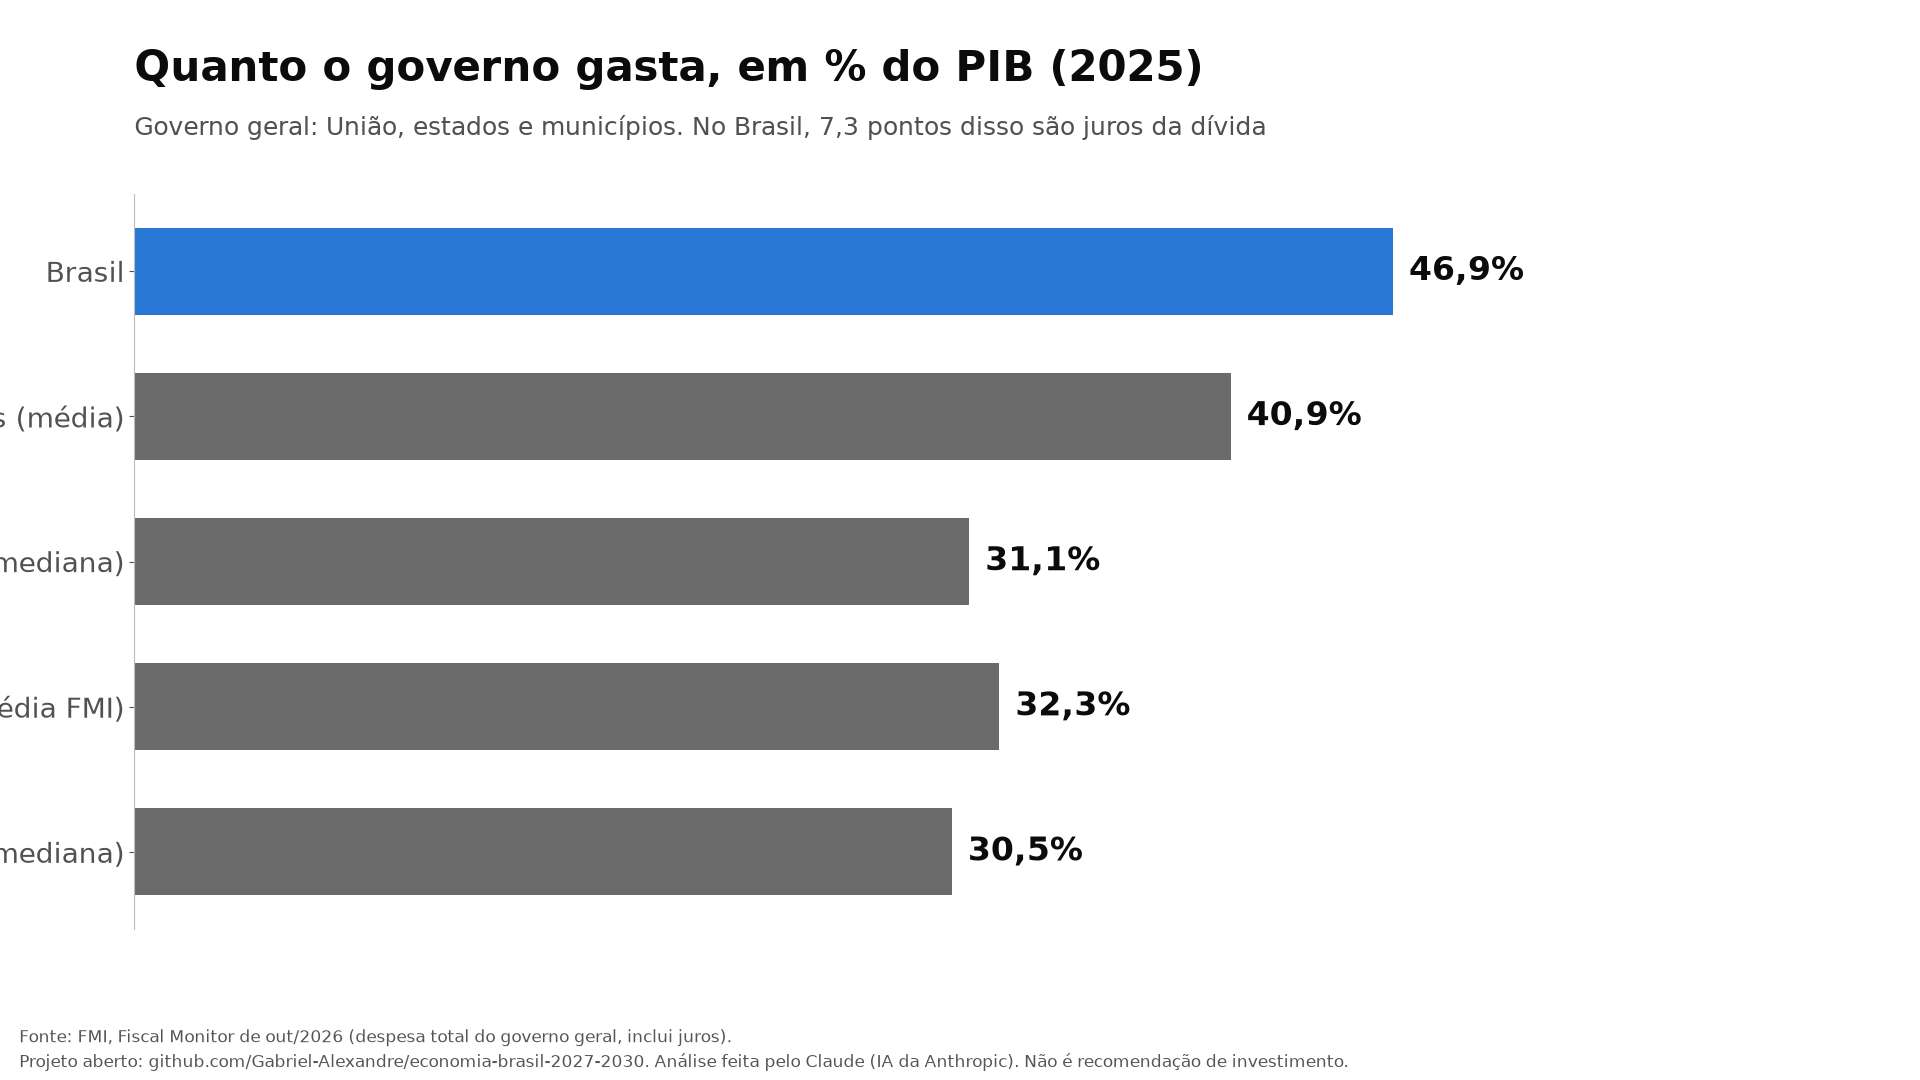
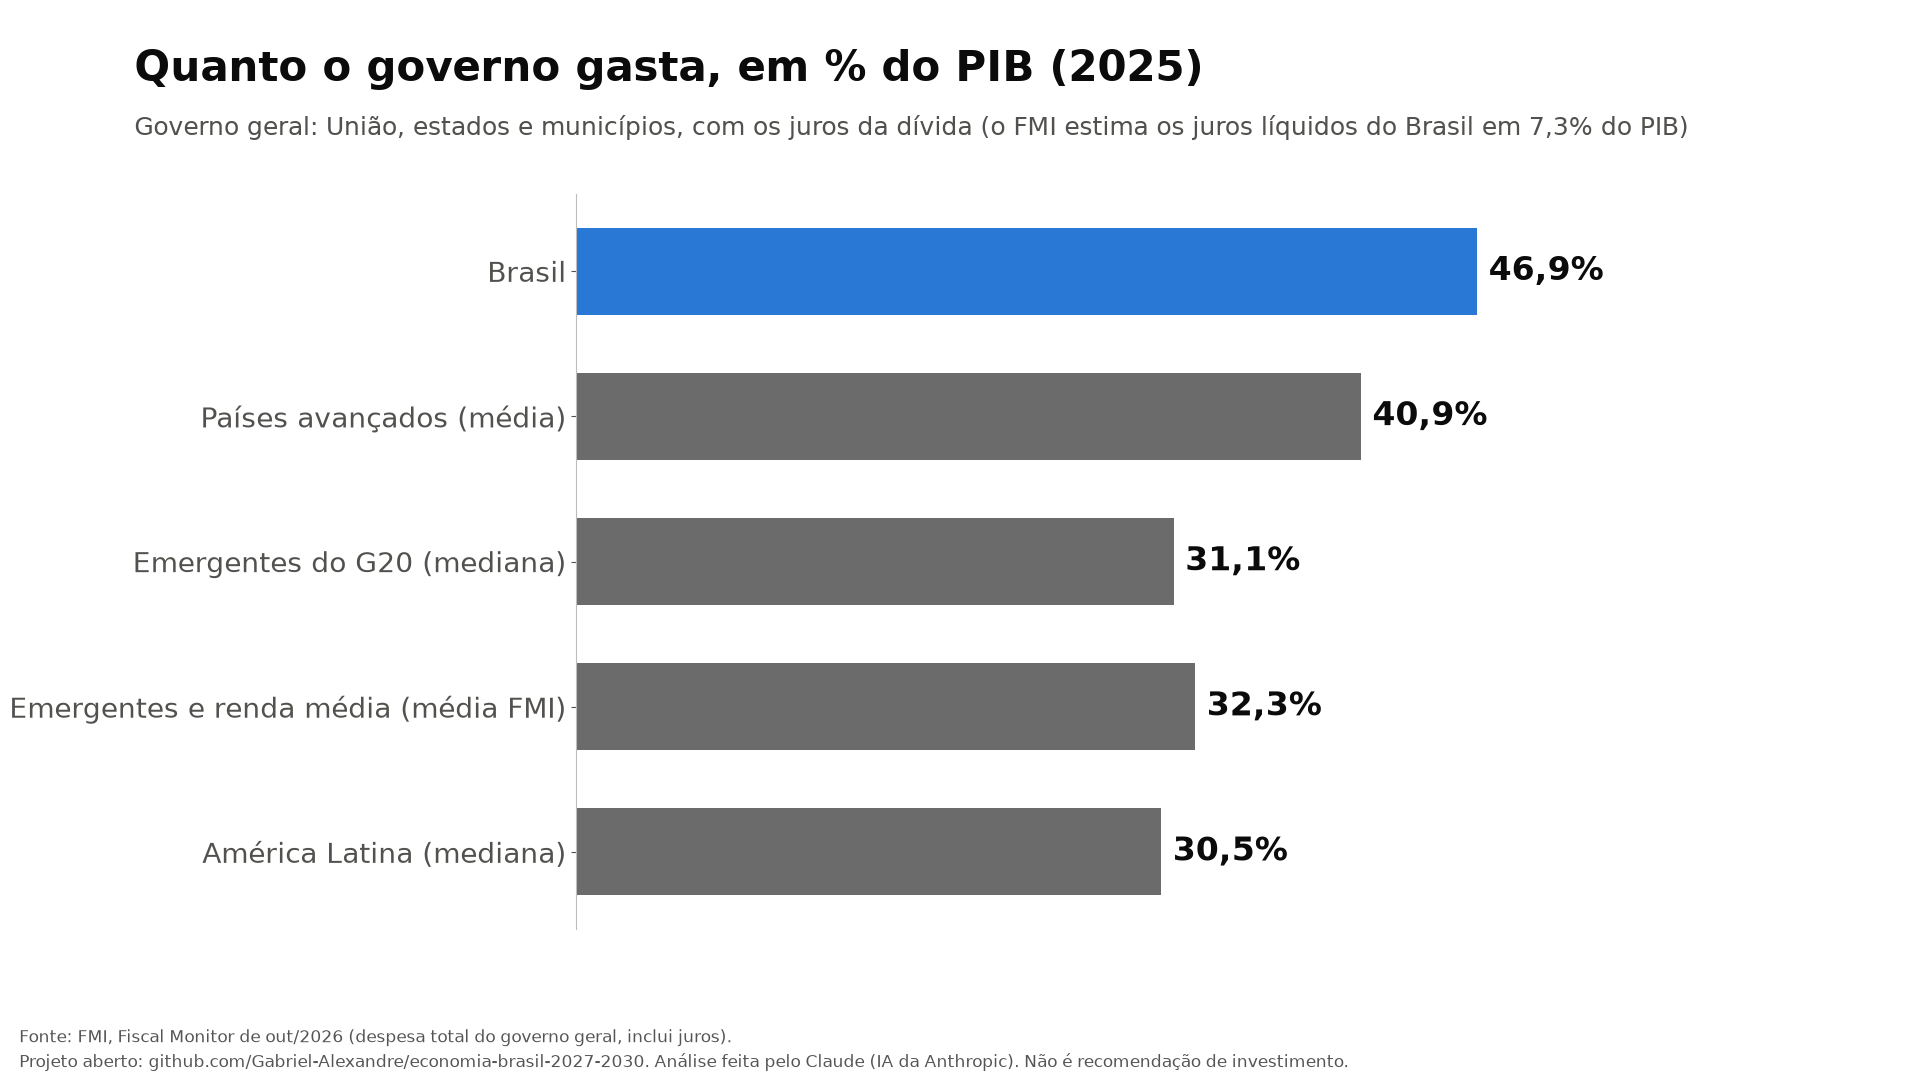
Gráficos: rótulos do gasto e unidade do aperto

diff --git a/ferramentas/graficos.py b/ferramentas/graficos.py
@@ -95,7 +95,7 @@ def g03_gasto(r: dict) -> None:
               ("Emergentes e renda média (média FMI)", d25["media_fm_emg"], CINZA),
               ("América Latina (mediana)", d25["mediana_america_latina"], CINZA)]
     fig, ax = nova("Quanto o governo gasta, em % do PIB (2025)", "FMI, Fiscal Monitor de out/2026 (despesa total do governo geral, inclui juros)",
-                   f"Governo geral: União, estados e municípios. No Brasil, {br(juros)} pontos disso são juros da dívida")
+                   f"Governo geral: União, estados e municípios, com os juros da dívida (o FMI estima os juros líquidos do Brasil em {br(juros)}% do PIB)")
     for i, (nome, v, cor) in enumerate(linhas[::-1]):
         ax.barh(i, v, height=0.6, color=cor)
         ax.text(v + 0.6, i, f"{br(v)}%", va="center", fontsize=24, fontweight="bold", color=TINTA)
@@ -104,6 +104,7 @@ def g03_gasto(r: dict) -> None:
     ax.set_xlim(0, 58)
     ax.set_xticks([])
     ax.spines["bottom"].set_visible(False)
+    fig.subplots_adjust(left=0.30)
     salvar(fig, "g03_gasto_do_governo.png")
 
 
@@ -222,7 +223,7 @@ def g09_discricionarias(r: dict) -> None:
         ax.text(a - w / 2, v + 2, br(v), ha="center", fontsize=19, fontweight="bold")
     for a, v, e in zip(anos[1:], base[1:], espaco[1:]):
         ax.text(a + w / 2, v + 2, br(v), ha="center", fontsize=19, color=TINTA2)
-        ax.text(a, max(v, e) + 12, f"faltam {br(v - e)}", ha="center", fontsize=19, color="#b4451a", fontweight="bold")
+        ax.text(a, max(v, e) + 12, f"faltam R$ {br(v - e)} bi", ha="center", fontsize=19, color="#b4451a", fontweight="bold")
     ax.set_xticks(anos)
     ax.set_ylim(150, 260)
     ax.legend(frameon=False, fontsize=18, loc="upper left")
